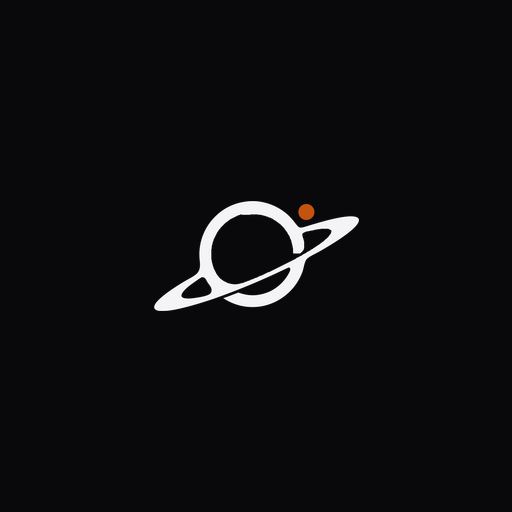
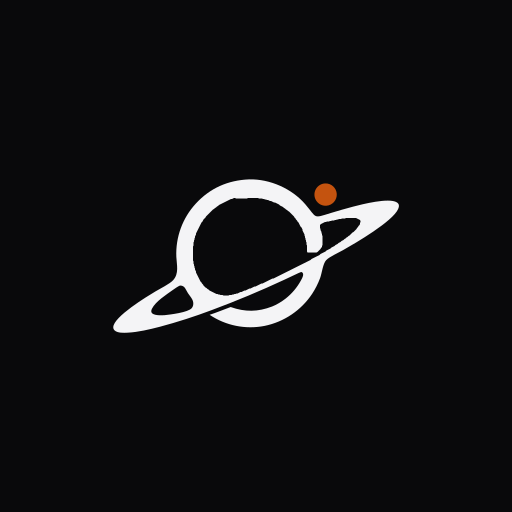
fix(desktop): preserve granted launch mark at 128 points

Changed region(s): [[0.2188, 0.3438, 0.7812, 0.6562]]

diff --git a/apps/desktop/__tests__/launch.test.ts b/apps/desktop/__tests__/launch.test.ts
@@ -1,7 +1,9 @@
 import { readFileSync } from 'node:fs'
 import { runInNewContext } from 'node:vm'
 import { describe, expect, it, vi } from 'vitest'
+import sharp from 'sharp'
 import { neutralColors } from '../../../packages/shared/src/theme/neutral-ramp.ts'
+import { schemes } from '../../../packages/shared/src/theme/color-schemes.ts'
 import { launchAsset } from '../scripts/launch-assets.ts'
 
 const origin = 'https://app.useorbit.org'
@@ -116,4 +118,18 @@ it.each(['dark', 'light'] as const)('keeps the %s native mark generated from the
   const native = readFileSync(new URL('../src-tauri/src/launch.rs', import.meta.url), 'utf8')
   const channels = [1, 3, 5].map(start => Number.parseInt(neutralColors[mode].bg.slice(start, start + 2), 16))
   expect(native).toContain(`Color(${channels.join(', ')}, 255)`)
+})
+
+it.each(['dark', 'light'] as const)('preserves the granted canvas and accent moon in the %s launch raster', async (mode) => {
+  const source = readFileSync(new URL('../../../design/brand/orbit-mark-accent.svg', import.meta.url), 'utf8')
+  const painted = source.replaceAll('var(--primary, currentColor)', schemes.orange.accent[mode].primary)
+    .replaceAll('currentColor', neutralColors[mode].fg1)
+  const expected = await sharp(Buffer.from(painted)).resize(512, 512)
+    .flatten({ background: neutralColors[mode].bg }).raw().toBuffer()
+  const generated = await launchAsset(mode)
+  const generatedPixels = await sharp(generated).flatten({ background: neutralColors[mode].bg }).raw().toBuffer()
+  expect(generatedPixels.equals(expected), 'generated pixels preserve the untrimmed brand canvas').toBe(true)
+  const committed = readFileSync(new URL(`../src-tauri/native/launch-${mode}.png`, import.meta.url))
+  const committedPixels = await sharp(committed).flatten({ background: neutralColors[mode].bg }).raw().toBuffer()
+  expect(committedPixels.equals(expected), 'committed pixels preserve the untrimmed brand canvas').toBe(true)
 })

diff --git a/apps/desktop/__tests__/native-launch.test.ts b/apps/desktop/__tests__/native-launch.test.ts
@@ -1,9 +1,17 @@
 import { spawnSync } from 'node:child_process'
-import { mkdtempSync, rmSync } from 'node:fs'
+import { mkdtempSync, readFileSync, rmSync } from 'node:fs'
 import { tmpdir } from 'node:os'
 import { join } from 'node:path'
 import { fileURLToPath } from 'node:url'
 import { expect, it } from 'vitest'
+
+it.each([
+  ['macos/launch.m', 'MIN(128, MIN(NSWidth(self.bounds), NSHeight(self.bounds)))'],
+  ['windows/launch.cpp', 'MulDiv(128, GetDpiForWindow(window), 96)'],
+])('draws the granted mark at 128 logical pixels in %s', (path, sizing) => {
+  const source = readFileSync(new URL(`../src-tauri/native/${path}`, import.meta.url), 'utf8')
+  expect(source.includes(sizing)).toBe(true)
+})
 
 it.skipIf(process.platform !== 'darwin')('presents the native mark before display, resizes, releases on paint or timeout and returns on reload', () => {
   const directory = mkdtempSync(join(tmpdir(), 'orbit-launch-'))

diff --git a/apps/desktop/scripts/launch-assets.ts b/apps/desktop/scripts/launch-assets.ts
@@ -8,10 +8,8 @@ export async function launchAsset(mode: 'dark' | 'light'): Promise<Buffer> {
   const source = await readFile(new URL('../../../design/brand/orbit-mark-accent.svg', import.meta.url), 'utf8')
   const painted = source.replaceAll('var(--primary, currentColor)', schemes.orange.accent[mode].primary)
     .replaceAll('currentColor', neutralColors[mode].fg1)
-  const mark = await sharp(Buffer.from(painted)).trim({ background: { r: 0, g: 0, b: 0, alpha: 0 } })
-    .resize({ width: 205 }).png().toBuffer()
-  return sharp({ create: { width: 512, height: 512, channels: 4, background: neutralColors[mode].bg } })
-    .composite([{ input: mark, gravity: 'centre' }]).png().toBuffer()
+  return sharp(Buffer.from(painted)).resize(512, 512)
+    .flatten({ background: neutralColors[mode].bg }).png().toBuffer()
 }
 
 if (process.argv[1] && import.meta.url === pathToFileURL(process.argv[1]).href) {

diff --git a/apps/desktop/__tests__/native-launch.m b/apps/desktop/__tests__/native-launch.m
@@ -1,6 +1,27 @@
 #import "../src-tauri/native/macos/launch.m"
 #include <assert.h>
 
+@interface RecordingMark : NSImage
+@property NSRect target;
+@end
+
+@implementation RecordingMark
+- (void)drawInRect:(NSRect)rect { self.target = rect; }
+@end
+
+static void assertMarkFrame(OrbitLaunchView *launch, NSSize bounds, NSRect expected) {
+    launch.frame = NSMakeRect(0, 0, bounds.width, bounds.height);
+    NSImage *original = launch.mark;
+    RecordingMark *recording = [[RecordingMark alloc] initWithSize:NSMakeSize(512, 512)];
+    launch.mark = recording;
+    NSImage *surface = [[NSImage alloc] initWithSize:bounds];
+    [surface lockFocus];
+    [launch drawRect:launch.bounds];
+    [surface unlockFocus];
+    assert(NSEqualRects(recording.target, expected));
+    launch.mark = original;
+}
+
 int main(int count, const char *arguments[]) {
     assert(count == 3);
     @autoreleasepool {
@@ -23,6 +44,8 @@ int main(int count, const char *arguments[]) {
             assert(launch.deadline.fireDate.timeIntervalSinceNow <= 15);
             [parent setFrameSize:NSMakeSize(1000, 700)];
             assert(NSEqualRects(launch.frame, web.frame));
+            assertMarkFrame(launch, NSMakeSize(1000, 700), NSMakeRect(436, 286, 128, 128));
+            assertMarkFrame(launch, NSMakeSize(80, 100), NSMakeRect(0, 10, 80, 80));
             NSTimer *firstDeadline = launch.deadline;
             orbit_launch_set_visible((__bridge void *)web, false);
             assert(launch.hidden && !firstDeadline.valid);

diff --git a/apps/desktop/src-tauri/native/windows/launch.cpp b/apps/desktop/src-tauri/native/windows/launch.cpp
@@ -58,7 +58,7 @@ static LRESULT CALLBACK paint(HWND window, UINT message, WPARAM word, LPARAM par
         DeleteObject(canvas);
         if (launch.mark) {
             Gdiplus::Graphics graphics(context);
-            int size = MulDiv(256, GetDpiForWindow(window), 96);
+            int size = MulDiv(128, GetDpiForWindow(window), 96);
             size = (std::min)(size, static_cast<int>((std::min)(bounds.right, bounds.bottom)));
             graphics.SetInterpolationMode(Gdiplus::InterpolationModeHighQualityBicubic);
             graphics.DrawImage(launch.mark.get(), (bounds.right - size) / 2,

diff --git a/apps/desktop/src-tauri/native/macos/launch.m b/apps/desktop/src-tauri/native/macos/launch.m
@@ -15,7 +15,7 @@
     (void)rect;
     [self.canvas setFill];
     NSRectFill(self.bounds);
-    CGFloat size = MIN(256, MIN(NSWidth(self.bounds), NSHeight(self.bounds)));
+    CGFloat size = MIN(128, MIN(NSWidth(self.bounds), NSHeight(self.bounds)));
     NSRect target = NSMakeRect((NSWidth(self.bounds) - size) / 2,
         (NSHeight(self.bounds) - size) / 2, size, size);
     [self.mark drawInRect:target];

diff --git a/apps/desktop/README.md b/apps/desktop/README.md
@@ -16,7 +16,7 @@ The deep-link plugin registers separate environment schemes. The single-instance
 
 ## Desktop lifecycle
 
-Before showing the window, the shell sets the native and webview canvas from the system appearance and places a still orbital mark over the webview. The native cover survives document replacement and returns on every full navigation, including web release reloads and sign-in returns. Contentful paint dismisses it through a generation-bound command; older WebKit versions use the parsed content's next paint. A native 15 second deadline dismisses the cover even when the page cannot execute JavaScript, leaving the webview's existing failure surface and reload behavior available. Notification launches retain their hidden-window policy. The two bundled mark images derive from the canonical brand SVG and shared tokens; regenerate them with `node --import tsx apps/desktop/scripts/launch-assets.ts`.
+Before showing the window, the shell sets the native and webview canvas from the system appearance and places a still orbital mark over the webview. The native cover survives document replacement and returns on every full navigation, including web release reloads and sign-in returns. Contentful paint dismisses it through a generation-bound command; older WebKit versions use the parsed content's next paint. A native 15 second deadline dismisses the cover even when the page cannot execute JavaScript, leaving the webview's existing failure surface and reload behavior available. Notification launches retain their hidden-window policy. The two bundled 512 pixel mark images preserve the canonical accent SVG's full canvas and shared tokens. Both platforms draw them centred in a 128 logical pixel box, clamped only for smaller windows; regenerate them with `node --import tsx apps/desktop/scripts/launch-assets.ts`.
 
 A second launch restores the existing window, including when hidden or minimized. The single-instance plugin forwards a protocol launch to the deep-link plugin before restoring focus. macOS Dock reopen also restores the window. Closing the window hides it while the webview and session remain alive. The menu bar or system tray has Open Orbit and Quit; Quit saves window geometry and exits the process.
 
